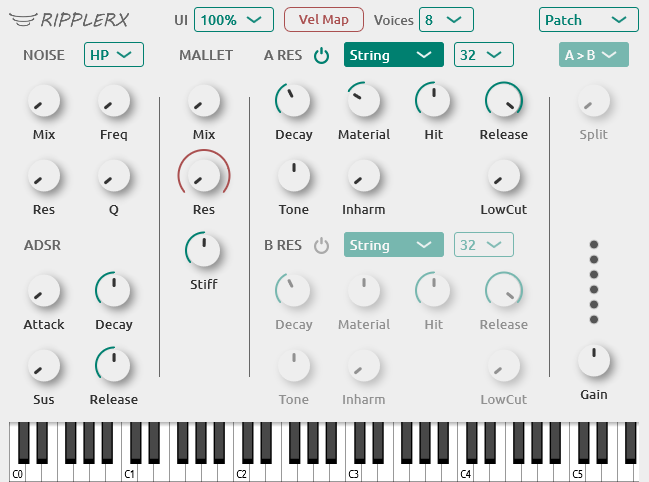
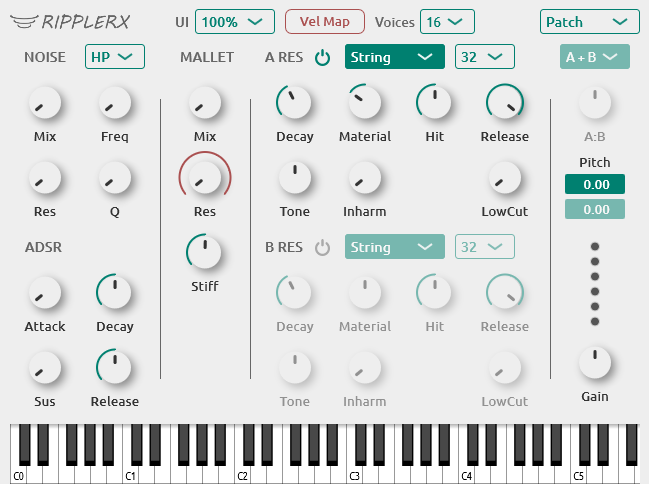
changes, before refactoring pitch selector

diff --git a/Source/ui/Pitch.cpp b/Source/ui/Pitch.cpp
@@ -37,7 +37,7 @@ void Pitch::paint(juce::Graphics& g) {
     norm = param->getValue();
     auto fine_val = param->convertFrom0to1(norm);
 
-    g.setColour(Colour(globals::COLOR_NEUTRAL).brighter(0.2));
+    g.setColour(Colour(globals::COLOR_ACTIVE));
     g.fillRoundedRectangle(0.f, 0.f, (float)getWidth(), (float)getHeight(), 2.f);
     g.setFont(FontOptions(15.0f));
     g.setColour(Colours::white);
@@ -52,17 +52,17 @@ void Pitch::mouseDown(const juce::MouseEvent& e)
 {
     e.source.enableUnboundedMouseMovement(true);
     is_coarse = e.getMouseDownX() < getWidth() / 2.f;
-    auto param = audioProcessor.params.getParameter(is_coarse ? coarse_param_id : fine_param_id);
+    auto param = audioProcessor.params.getParameter(coarse_param_id);
     auto norm = param->getValue();
     auto val = param->convertFrom0to1(norm);
-    if (is_coarse)
-        cur_coarse = val;
-    else
-        cur_fine = val;
+    cur_coarse = val;
+    param = audioProcessor.params.getParameter(fine_param_id);
+    norm = param->getValue();
+    val = param->convertFrom0to1(norm);
     last_mouse_pos = e.getPosition();
+    cur_fine = val;
     setMouseCursor(MouseCursor::NoCursor);
     start_mouse_pos = Desktop::getInstance().getMousePosition();
-    repaint();
 }
 
 
@@ -73,13 +73,10 @@ void Pitch::mouseWheelMove(const juce::MouseEvent& event, const juce::MouseWheel
     applyChange(slider_change);
 }
 
-
-
 void Pitch::mouseUp(const juce::MouseEvent& e) {
     setMouseCursor(MouseCursor::NormalCursor);
     e.source.enableUnboundedMouseMovement(false);
     Desktop::getInstance().setMousePosition(start_mouse_pos);
-    repaint();
 }
 
 void Pitch::mouseDoubleClick(const juce::MouseEvent& e) {
@@ -93,7 +90,7 @@ void Pitch::mouseDoubleClick(const juce::MouseEvent& e) {
 void Pitch::mouseDrag(const juce::MouseEvent& e) {
     auto change = e.getPosition() - last_mouse_pos;
     last_mouse_pos = e.getPosition();
-    auto speed = (e.mods.isCtrlDown() ? 40.0f : 4.0f) * 20.0f;
+    auto speed = (e.mods.isCtrlDown() ? 40.0f : 4.0f) * 10.0f;
     auto slider_change = float(-change.getY()) / speed;
     applyChange(slider_change);
 }
@@ -105,17 +102,39 @@ void Pitch::applyChange(float change)
     else
         cur_fine += change;
 
-    if (!is_coarse && cur_fine < 0.0f || cur_fine > 99.f) {
-        cur_fine = cur_fine < 0.0f ? 99.f : 0.f;
+    if (!is_coarse && (
+        (cur_fine >= 100.f) || 
+        (cur_fine <= -100.f) || 
+        (std::trunc(cur_coarse) < 0.f && cur_fine >= 1.f) || 
+        (std::trunc(cur_coarse) > 0.f && cur_fine < 0))) 
+    {
+        cur_coarse = std::trunc(cur_coarse);
+        if (cur_fine >= 100.f) {
+            cur_coarse += 1.f;
+            cur_fine = 0.f;
+        }
+        else if (cur_fine <= -100.f) {
+            cur_coarse -= 1.f;
+            cur_fine = 0.f;
+        }
+        else if (cur_coarse > 0.f) {
+            cur_coarse += cur_fine >= 100.f ? 1.f : -1.f;
+            cur_fine = cur_fine < 0.f ? 99.f : 0.f;
+        } else {
+            cur_coarse += cur_fine <= -100.f ? -1.f : 1.f;
+            cur_fine = cur_fine < -99.f ? 0.f : -99.f;
+        }
+
+        last_mouse_pos = getMouseXYRelative();
         auto param = audioProcessor.params.getParameter(coarse_param_id);
-        auto val = param->convertFrom0to1(param->getValue());
         param->beginChangeGesture();
-        param->setValueNotifyingHost(param->convertTo0to1(val + (!cur_fine ? 1.0f : -1.0f)));
+        param->setValueNotifyingHost(param->convertTo0to1(std::floor(cur_coarse)));
         param->endChangeGesture();
     }
 
     auto param = audioProcessor.params.getParameter(is_coarse ? coarse_param_id : fine_param_id);
+    auto norm = param->convertTo0to1(std::floor(is_coarse ? cur_coarse : cur_fine));
     param->beginChangeGesture();
-    param->setValueNotifyingHost(param->convertTo0to1(is_coarse ? cur_coarse : cur_fine));
+    param->setValueNotifyingHost(norm);
     param->endChangeGesture();
 }

diff --git a/Source/PluginEditor.cpp b/Source/PluginEditor.cpp
@@ -45,7 +45,6 @@ RipplerXAudioProcessorEditor::RipplerXAudioProcessorEditor (RipplerXAudioProcess
         std::unique_ptr<juce::XmlElement>xml(state.createXml());
         juce::String xmlString = xml->toString();
         DBG(xmlString.toStdString());
-        DBG(audioProcessor.params.getParameter("b_coarse")->getValue());
     };
 #endif
 
@@ -439,7 +438,7 @@ RipplerXAudioProcessorEditor::RipplerXAudioProcessorEditor (RipplerXAudioProcess
 
     row += 25;
 
-    abMix = std::make_unique<Rotary>(p, "ab_mix", "A+B", LabelFormat::ABMix, "", true);
+    abMix = std::make_unique<Rotary>(p, "ab_mix", "A:B", LabelFormat::ABMix, "", true);
     addAndMakeVisible(*abMix);
     abMix->setBounds(col,row,70,75);
 
@@ -448,7 +447,7 @@ RipplerXAudioProcessorEditor::RipplerXAudioProcessorEditor (RipplerXAudioProcess
     abSplit->setBounds(col,row,70,75);
 
     addAndMakeVisible(pitchLabel);
-    pitchLabel.setColour(juce::Label::ColourIds::textColourId, Colour(globals::COLOR_NEUTRAL_LIGHT));
+    pitchLabel.setColour(juce::Label::ColourIds::textColourId, Colour(globals::COLOR_NEUTRAL));
     pitchLabel.setFont(FontOptions(15.0f));
     pitchLabel.setJustificationType(Justification::centred);
     pitchLabel.setText("Pitch", NotificationType::dontSendNotification);
@@ -456,11 +455,11 @@ RipplerXAudioProcessorEditor::RipplerXAudioProcessorEditor (RipplerXAudioProcess
 
     aPitch = std::make_unique<Pitch>(p, "A Pitch", "a_coarse", "a_fine");
     addAndMakeVisible(*aPitch);
-    aPitch->setBounds(col+5,row+105,70-10,18);
+    aPitch->setBounds(col+5,row+105,70-10,20);
 
     bPitch = std::make_unique<Pitch>(p, "B Pitch", "b_coarse", "b_fine");
     addAndMakeVisible(*bPitch);
-    bPitch->setBounds(col+5,row+130,70-10,18);
+    bPitch->setBounds(col+5,row+130,70-10,20);
 
     gain = std::make_unique<Rotary>(p, "gain", "Gain", LabelFormat::dB, "", true);
     addAndMakeVisible(*gain);

diff --git a/Source/PluginProcessor.cpp b/Source/PluginProcessor.cpp
@@ -142,6 +142,7 @@ void RipplerXAudioProcessor::setPolyphony(int value)
     onSlider();
 }
 
+// Set UI scale factor
 void RipplerXAudioProcessor::setScale(float value)
 {
     scale = value;
@@ -580,6 +581,7 @@ void RipplerXAudioProcessor::processBlockByType (AudioBuffer<FloatType>& buffer,
 
     float rms = (float)buffer.getRMSLevel(0, 0, buffer.getNumSamples());
     rmsValue.store(rms, std::memory_order_release);
+    midiMessages.clear(); // FIX avoid rare crash when clicking the piano keys
 }
 
 void RipplerXAudioProcessor::clearVoices()

diff --git a/Source/dsp/Voice.h b/Source/dsp/Voice.h
@@ -31,7 +31,7 @@ public:
 	void trigger(double srate, int _note, double vel, double malletFreq);
 	void release();
 	void clear();
-	void setPitch(float a_coarse, float b_coarse, float a_fine, float b_fine);
+	void setPitch(double a_coarse, double b_coarse, double a_fine, double b_fine);
 	void applyPitch(std::array<double, 64>& model, double factor);
 	double inline freqShift(double fa, double fb) const;
 	std::tuple<std::array<double, 64>, std::array<double, 64>> calcFrequencyShifts();

diff --git a/Source/dsp/Voice.cpp b/Source/dsp/Voice.cpp
@@ -73,7 +73,7 @@ void Voice::setCoupling(bool _couple, double _split) {
 	split = _split;
 }
 
-void Voice::setPitch(float a_coarse, float b_coarse, float a_fine, float b_fine)
+void Voice::setPitch(double a_coarse, double b_coarse, double a_fine, double b_fine)
 {
 	aPitchFactor = pow(2.0, (a_coarse + a_fine / 100.0) / 12.0);
 	bPitchFactor = pow(2.0, (b_coarse + b_fine / 100.0) / 12.0);

diff --git a/Source/dsp/Waveguide.cpp b/Source/dsp/Waveguide.cpp
@@ -5,6 +5,7 @@
 void Waveguide::update(double f_0, double vel, bool isRelease)
 {
 	auto tlen = srate / f_0;
+	if (is_closed) tlen *= 0.5; // fix closed tube one octave lower
 	read_ptr = (int)(write_ptr - tlen + tube_len) % tube_len;
 
 	auto decay_k = fmin(100.0, exp(log(decay) + vel * vel_decay * (log(100) - log(0.01))));

diff --git a/Source/ui/Pitch.h b/Source/ui/Pitch.h
@@ -27,8 +27,8 @@ protected:
 
 private:
     bool is_coarse = false;
-    float cur_coarse = 0.f;
-    float cur_fine = 0.f;
+    float cur_coarse = 0.0f;
+    float cur_fine = 0.0f;
     juce::Point<int> last_mouse_pos;
     juce::Point<int> start_mouse_pos;
 };
